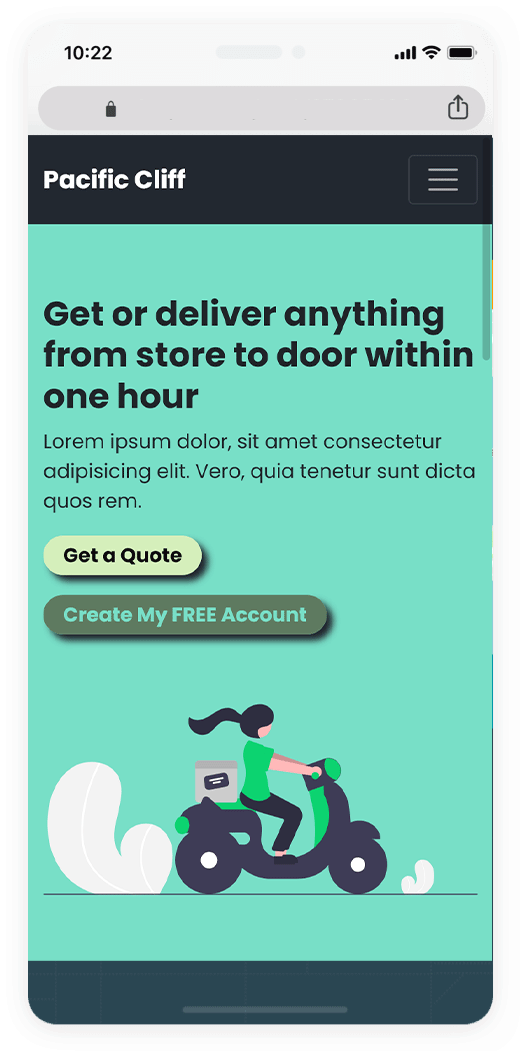
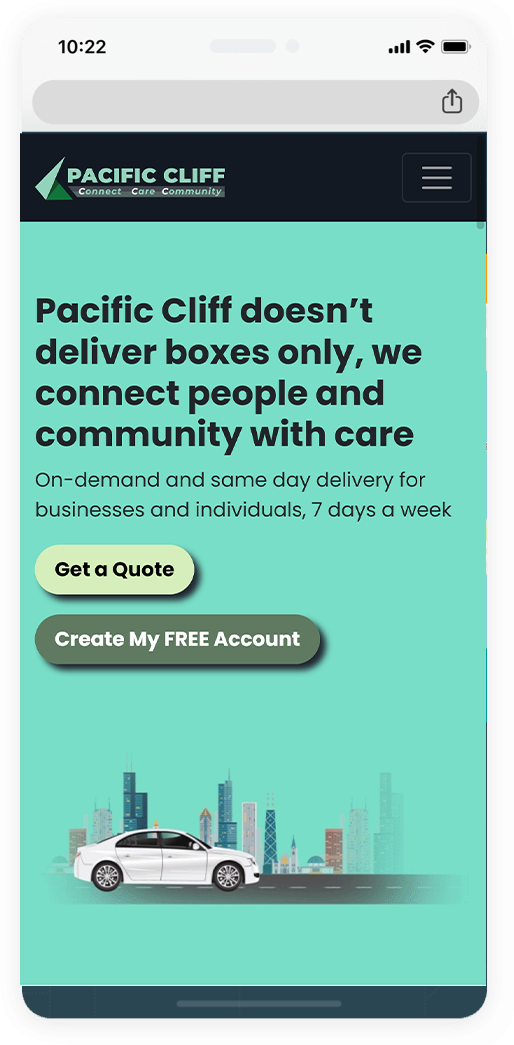
final

Changed region(s): [[0.0311, 0.0306, 0.965, 0.9799]]

diff --git a/index.html b/index.html
@@ -88,8 +88,8 @@
                                     Account</a></button>
                         </div>
                     </div>
-                    <div class="col-lg-6 py-md-5 py-5">
-                        <img class="img-fluid" src="images/banner-image.svg" alt="">
+                    <div class="col-lg-6 py-md-5">
+                        <img class="img-fluid mt-5" src="images/Landing-GIF.gif" alt="">
                     </div>
                 </div>
             </div>
